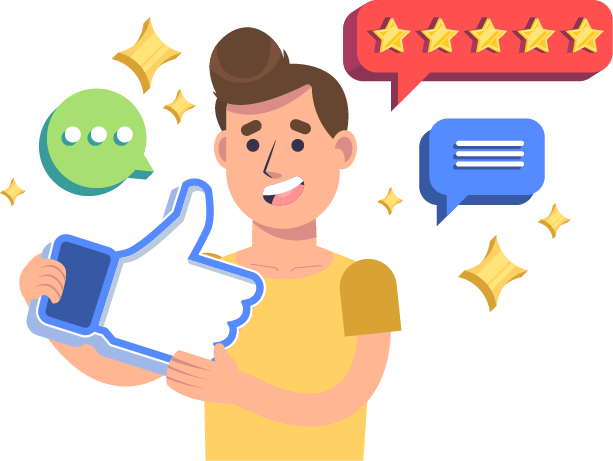
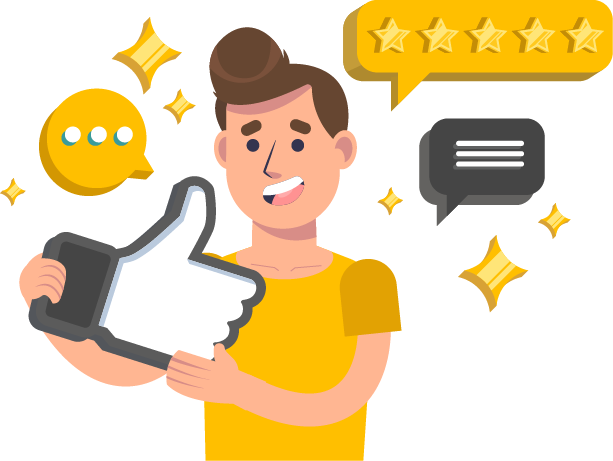
update vector img in recommendationSection and assets

diff --git a/src/app/recommendationSection/RecommendationSection.react.jsx b/src/app/recommendationSection/RecommendationSection.react.jsx
@@ -2,7 +2,7 @@ import { React, useState, useEffect } from 'react'
 import { useSelector } from "react-redux";
 import { Grid, Typography, Button, Paper, styled, Stack, Modal, Box, Backdrop, Fade } from '@mui/material';
 import Vector from "../../assets/Vector.png"
-import BlessIcon from "../../assets/old-bless.png"
+// import BlessIcon from "../../assets/bless.png"
 import { useNavigate } from 'react-router-dom';
 
 const RecommendationSection = (props) => {
@@ -103,7 +103,9 @@ const RecommendationSection = (props) => {
                                 <Grid container item xs={12} sm={6} md={6} lg={6} alignItems="end" justifyContent="center">
                                     <Grid item xs={12}>
                                         <Typography variant="h4" sx={{ fontFamily: "oswald", color: "#fff" }} align='center'>
-                                            That's All, Thanks <span><img src={BlessIcon} style={{ width: "1em", height: "1em" }} /></span>
+                                            That's All, Thanks <span>
+                                                {/* <img src={BlessIcon} style={{ width: "1.5em", height: "1.5em", margin: "0" }} /> */}
+                                                </span>
                                         </Typography>
                                     </Grid>
                                     <Grid item xs={12} sx={{ mb: 2 }}>
